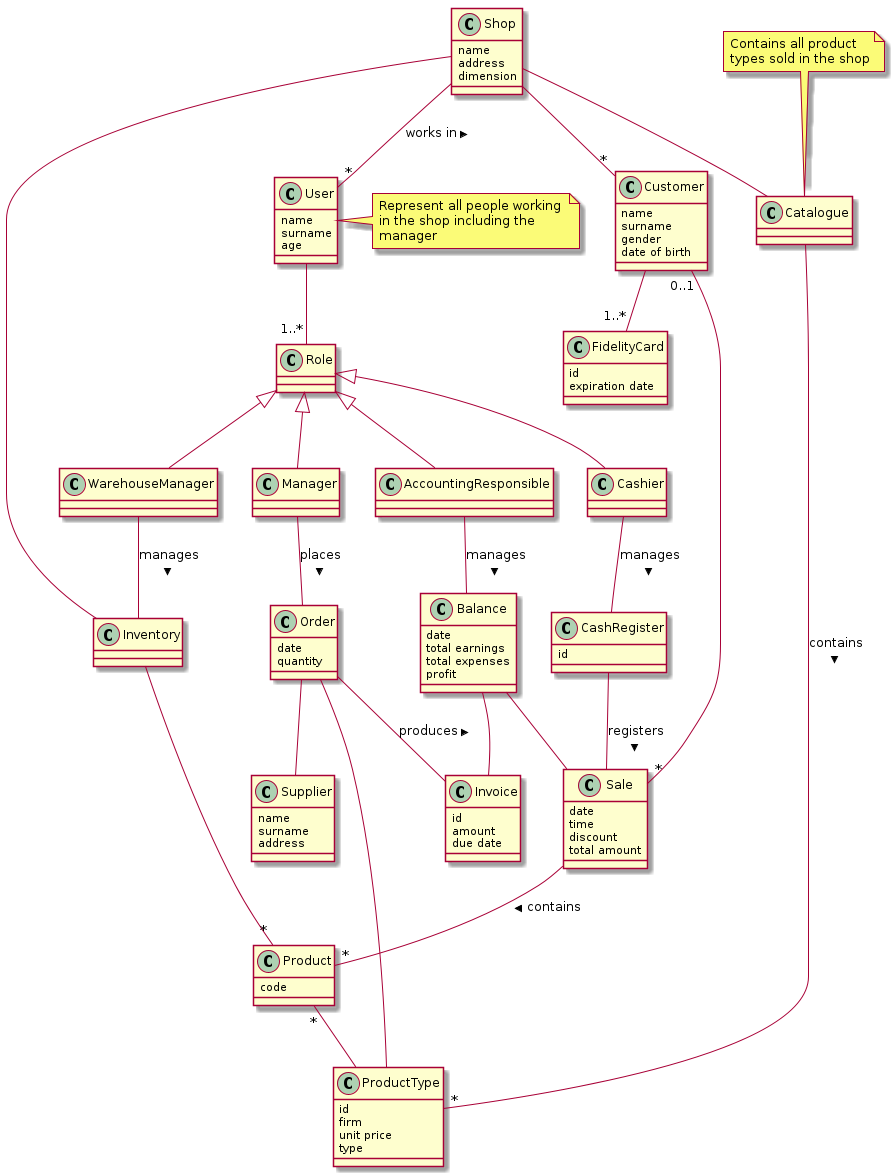
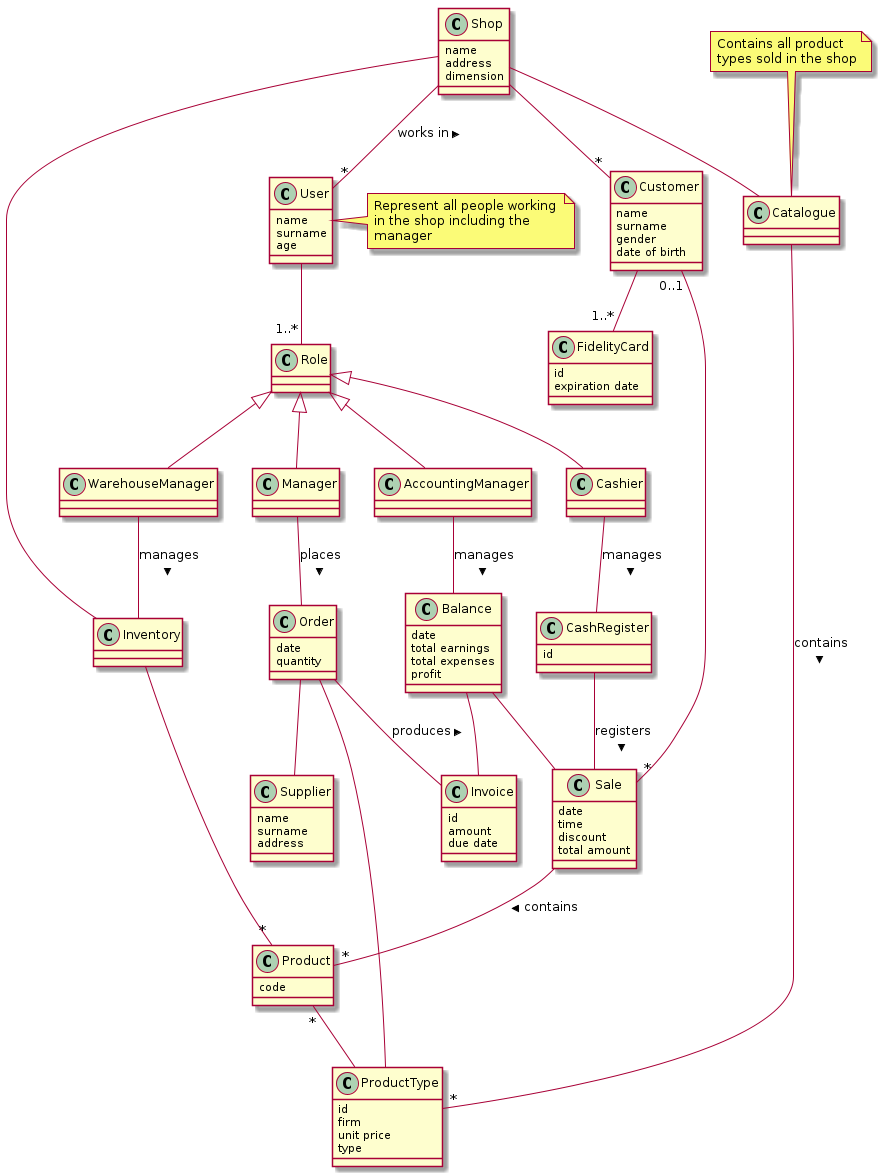
doc: minor fixes

diff --git a/Deliverables/RequirementsDocument.md b/Deliverables/RequirementsDocument.md
@@ -46,7 +46,7 @@ EZShop is a software application to:
 |	Warehouse manager| Person who is responsible of managing the inventory and warehouse of the shop|
 |	Customer		| Customers of the shop who do sales in the shop			|
 |	Developer		| Person who develop the EZShop application					|
-| 	Cash register	| Instrument that register each sale happened in the shop and contains cash received from sales	|
+| 	Cash register	| Instrument that register each sale happened in the shop, contains cash received from sales and prints the sale ticket	|
 |	Product			| Product that is sold in the shop and is contained in the inventory|
 |	Inventory		| List of available product in the shop	that can be contained into a database|
 |	Supplier		| Person who sell the products to the shop manager			|
@@ -442,22 +442,22 @@ The following table indicates which actor have the rights to perform functional 
 |	8	| Add the amount of money received to the current entries|
 |	9	| Print final sale ticket|
 
-### Use case 4, UC4
+### Use case 4, UC4 - Manage accounting
 
 ##### Scenario 4.1 - 
 
-### Use case 5, UC5
+### Use case 5, UC5 - Manage customers
 
 ##### Scenario 5.1 - 
 
-### Use case 6, UC6
+### Use case 6, UC6 - Manage users
 
 ##### Scenario 6.1 - 
-### Use case 7, UC7
+### Use case 7, UC7 - Manage suppliers
 
 ##### Scenario 7.1 - 
-..
-### Use case 8, UC8
+
+### Use case 8, UC8 - Manage orders
 
 ##### Scenario 8.1 - 
 
@@ -518,7 +518,6 @@ The following table indicates which actor have the rights to perform functional 
 			discount
 			total amount
 		}
-
 		class Customer{
 			name
 			surname
@@ -543,8 +542,7 @@ The following table indicates which actor have the rights to perform functional 
 			total expenses
 			profit
 		}
-
-
+		' associations
 		Shop -- Inventory
 		Shop -- Catalogue
 		Inventory -- "*"Product
@@ -555,24 +553,24 @@ The following table indicates which actor have the rights to perform functional 
 		Role <|-- Manager
 		Role <|-- WarehouseManager
 		Role <|-- AccountingManager
-
+		' orders
 		Order -- ProductType
 		Order -- Supplier
 		Manager -- Order: places >
 		Order -- Invoice: produces >
-
+		' sales
 		Sale -- "*"Product: contains >
-
+		' catalogue
 		Catalogue -- "*"ProductType: contains >
-
+		' customer
 		Customer -- "1..*"FidelityCard
 		Shop -- "*"Customer
 		Customer"0..1" -- "*"Sale
-
+		' cashier
 		Cashier -- CashRegister: manages >
 		CashRegister -- Sale: registers >
 		WarehouseManager -- Inventory: manages >
-
+		' balance
 		Balance -- Sale
 		Balance -- Invoice
 		AccountingManager -- Balance: manages >
